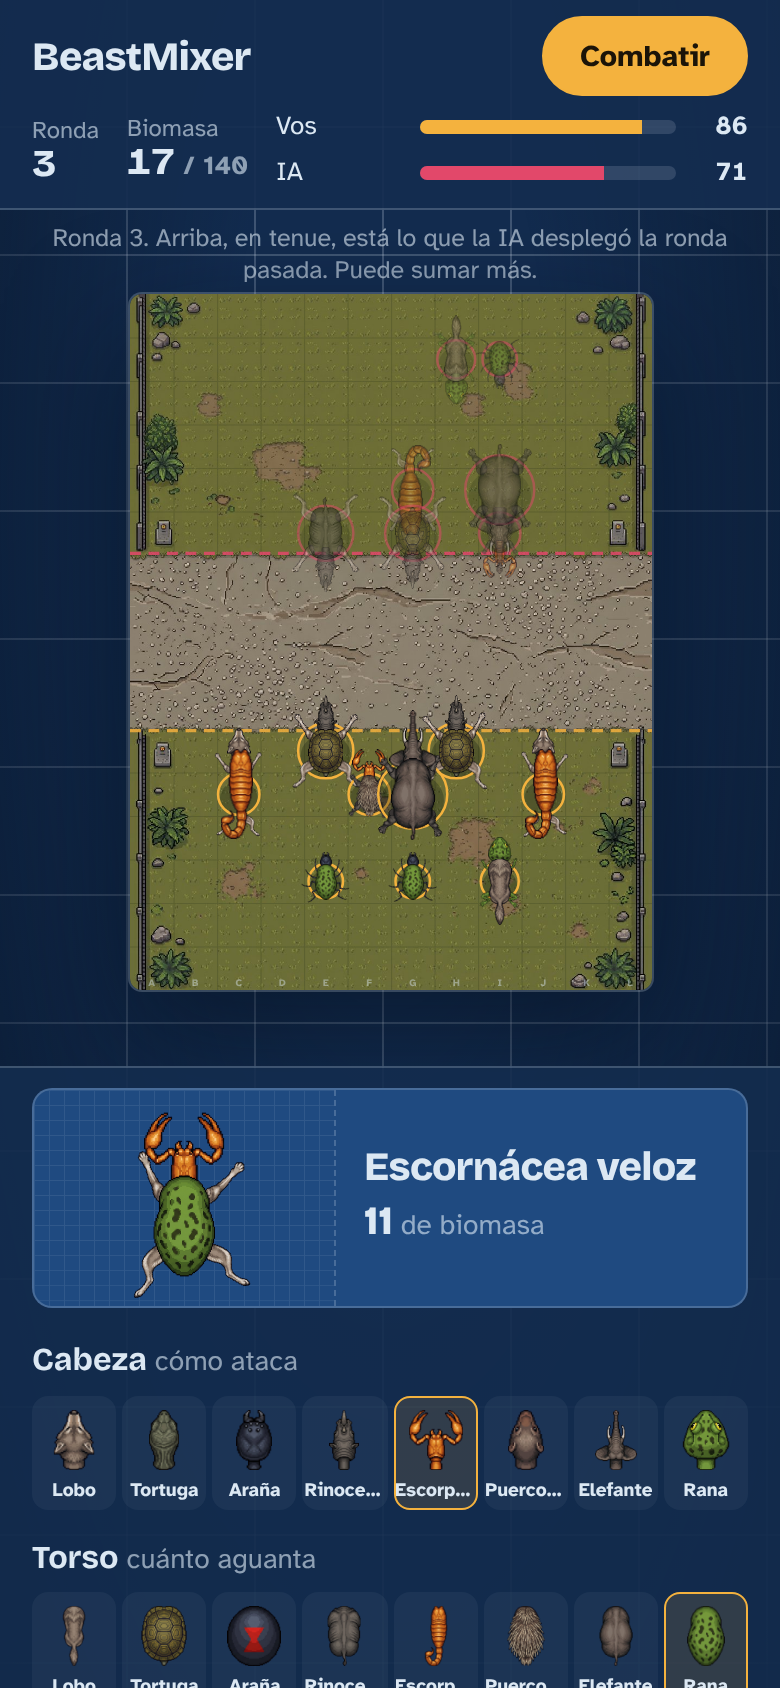
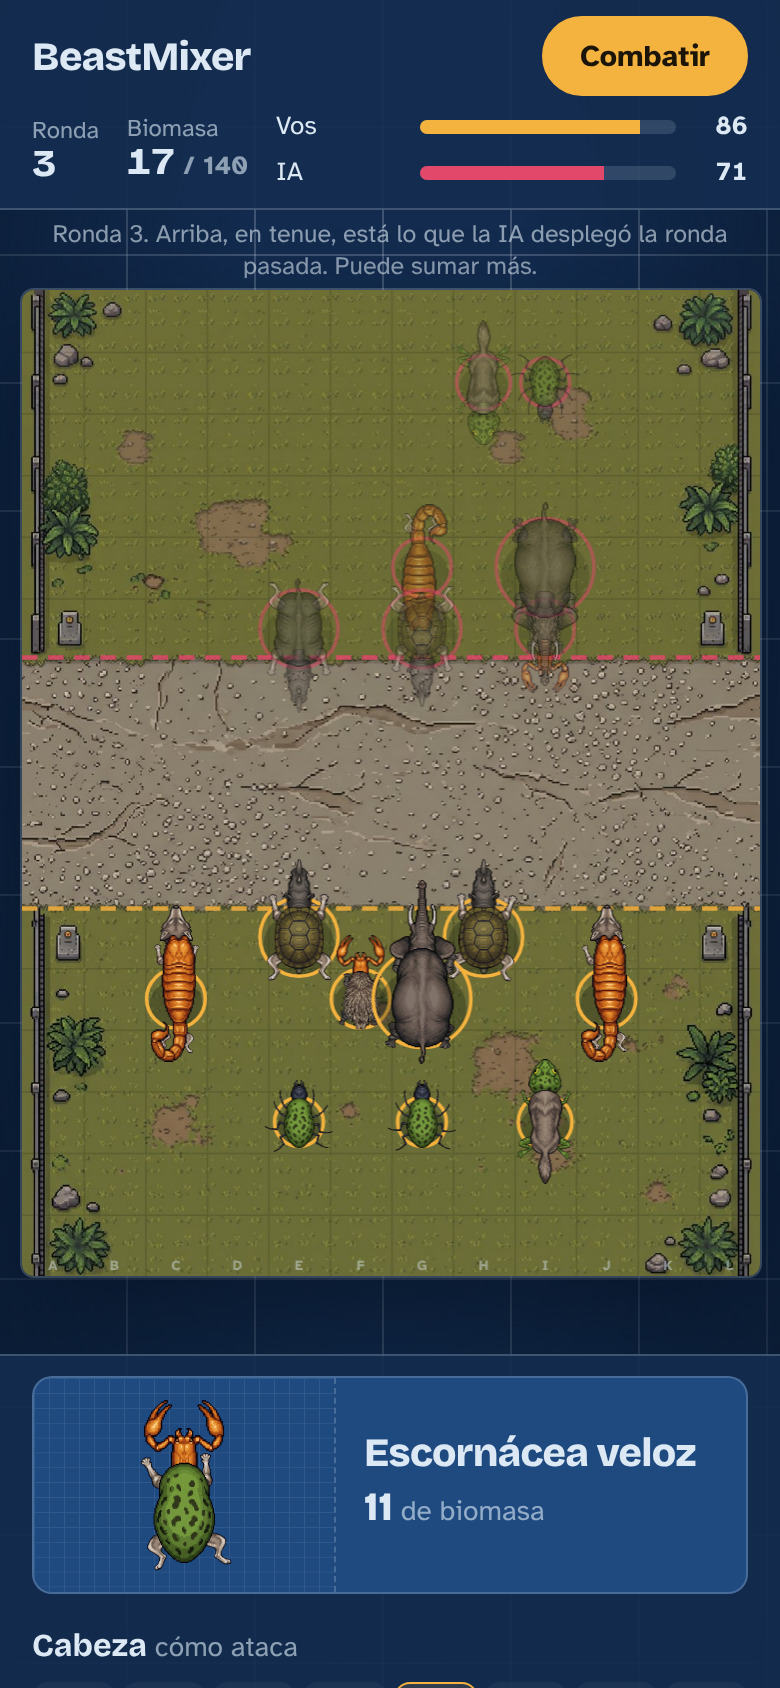
Celular: tablero más grande, cámara de combate y patas más naturales
- Patas según cómo camina cada animal: lobo, rinoceronte, elefante y puercoespín las llevan debajo del cuerpo y asoman al dar el paso; tortuga, rana, araña y escorpión las mantienen abiertas a los costados.
- En el celular el tablero ocupa todo el ancho mientras desplegás.
- Durante el combate, en pantallas chicas la cámara se acerca a la pelea y la sigue.
- Capturas del README actualizadas.

Claude-Session: https://claude.ai/code/session_01FDnrwgjCspprCcZf3NvH3q

diff --git a/src/render/campo.js b/src/render/campo.js
@@ -39,16 +39,59 @@
       canvas.height = Math.floor(H * escala * dpr);
     }
 
-    // Pantalla → coordenadas del mundo (respeta la vista girada del jugador B)
+    // Cámara: centro (x, y) y zoom z. En pantallas chicas sigue la pelea durante el combate.
+    var cam = { x: W / 2, y: H / 2, z: 1 };
+    var ZOOM_MAX = 2.1;
+
+    function objetivoCamara(escena) {
+      var chica = canvas.clientWidth > 0 && canvas.clientWidth < 560;
+      if (!escena.camaraAuto || !chica) return { x: W / 2, y: H / 2, z: 1 };
+      var x0 = Infinity, y0 = Infinity, x1 = -Infinity, y1 = -Infinity, n = 0;
+      (escena.unidades || []).forEach(function (u) {
+        if (u.o && u.o.muerta) return;
+        n++;
+        if (u.x < x0) x0 = u.x; if (u.x > x1) x1 = u.x;
+        if (u.y < y0) y0 = u.y; if (u.y > y1) y1 = u.y;
+      });
+      if (!n) return { x: cam.x, y: cam.y, z: cam.z };
+      var margen = 70;
+      var z = Math.min(W / (x1 - x0 + margen * 2), H / (y1 - y0 + margen * 2));
+      z = Math.max(1, Math.min(ZOOM_MAX, z));
+      return { x: (x0 + x1) / 2, y: (y0 + y1) / 2, z: z };
+    }
+
+    function moverCamara(escena) {
+      var obj = objetivoCamara(escena);
+      var k = escena.camaraAuto ? 0.06 : 0.25;
+      cam.z += (obj.z - cam.z) * k;
+      cam.x += (obj.x - cam.x) * k;
+      cam.y += (obj.y - cam.y) * k;
+      if (Math.abs(cam.z - 1) < 0.002 && !escena.camaraAuto) { cam.z = 1; cam.x = W / 2; cam.y = H / 2; }
+      // que la vista no se salga del mapa
+      var mx = W / (2 * cam.z), my = H / (2 * cam.z);
+      cam.x = Math.max(mx, Math.min(W - mx, cam.x));
+      cam.y = Math.max(my, Math.min(H - my, cam.y));
+    }
+
+    // Pantalla → coordenadas del mundo (respeta la vista girada del jugador B y la cámara)
     function aMundo(clientX, clientY, girar) {
       var rect = canvas.getBoundingClientRect();
       var x = (clientX - rect.left) / rect.width * W;
       var y = (clientY - rect.top) / rect.height * H;
       if (girar) { x = W - x; y = H - y; }
-      return { x: x, y: y };
+      return { x: (x - W / 2) / cam.z + cam.x, y: (y - H / 2) / cam.z + cam.y };
     }
 
-    function aPantalla(x, y, girar) { return girar ? { x: W - x, y: H - y } : { x: x, y: y }; }
+    function aPantalla(x, y, girar) {
+      var sx = (x - cam.x) * cam.z + W / 2, sy = (y - cam.y) * cam.z + H / 2;
+      return girar ? { x: W - sx, y: H - sy } : { x: sx, y: sy };
+    }
+
+    function transformarMundo(girar) {
+      var b = dpr * escala, z = cam.z;
+      if (girar) ctx.setTransform(-b * z, 0, 0, -b * z, b * (W / 2 + cam.x * z), b * (H / 2 + cam.y * z));
+      else ctx.setTransform(b * z, 0, 0, b * z, b * (W / 2 - cam.x * z), b * (H / 2 - cam.y * z));
+    }
 
     function dibujarFondo(escena) {
       if (!mapa) return dibujarFondoPlano(escena);
@@ -133,8 +176,10 @@
     }
 
     function dibujar(escena) {
-      ctx.setTransform(dpr * escala, 0, 0, dpr * escala, 0, 0);
-      if (escena.girar) ctx.setTransform(-dpr * escala, 0, 0, -dpr * escala, W * dpr * escala, H * dpr * escala);
+      moverCamara(escena);
+      ctx.setTransform(1, 0, 0, 1, 0, 0);
+      ctx.fillStyle = '#132c4f'; ctx.fillRect(0, 0, canvas.width, canvas.height);
+      transformarMundo(escena.girar);
       dibujarFondo(escena);
 
       var i, u;
@@ -157,7 +202,8 @@
         var p = aPantalla(u.x, u.y, escena.girar);
         ctx.save();
         ctx.setTransform(dpr * escala, 0, 0, dpr * escala, 0, 0);
-        var ancho = Math.max(18, u.b.radio * 2.2), yb = p.y - u.b.radio * 1.38 * ESCALA_VISUAL - 6;
+        var ev = BM.spritesListos && BM.spritesListos() ? 1.15 : ESCALA_VISUAL;
+        var ancho = Math.max(18, u.b.radio * 2.2) * Math.sqrt(cam.z), yb = p.y - u.b.radio * 1.38 * ev * cam.z - 6;
         ctx.fillStyle = 'rgba(8,20,40,0.75)'; ctx.fillRect(p.x - ancho / 2 - 1, yb - 1, ancho + 2, 5);
         ctx.fillStyle = u.o.equipo; ctx.fillRect(p.x - ancho / 2, yb, ancho * Math.max(0, u.vida / u.b.vida), 3);
         if (u.veneno) {
@@ -214,7 +260,7 @@
         ctx.save();
         ctx.setTransform(dpr * escala, 0, 0, dpr * escala, 0, 0);
         ctx.globalAlpha = Math.min(1, a * 1.5);
-        ctx.font = '700 11px "Atkinson Hyperlegible", system-ui, sans-serif';
+        ctx.font = '700 ' + Math.round(11 * Math.sqrt(cam.z)) + 'px "Atkinson Hyperlegible", system-ui, sans-serif';
         ctx.textAlign = 'center';
         ctx.fillStyle = e.color;
         ctx.fillText(e.texto, p.x, p.y - (1 - a) * 18);

diff --git a/src/render/bestias.js b/src/render/bestias.js
@@ -337,12 +337,18 @@
   var PATA_ESCALA = 0.5;   // las patas vistas desde arriba quedan más cortas
   var CABEZA_MAX = 1.3;     // la cabeza no puede ser más ancha que 1.3 × el torso
 
-  // Ángulos de las patas del lado izquierdo (radianes; 180° = hacia adelante).
-  var PATAS_POR_ANIMAL = {
-    arana: [[2.8, 0, 'pataDel'], [2.25, 0.33, 'pataDel'], [1.25, 0.66, 'pataTras'], [0.6, 1, 'pataTras']],
-    escorpion: [[2.4, 0, 'pataDel'], [1.6, 0.5, 'pataTras'], [0.8, 1, 'pataTras']]
+  // Cómo apoya cada animal las patas, lado izquierdo (radianes; π = hacia adelante).
+  // [ángulo, posición entre hombro (0) y cadera (1), pieza, largo visible]
+  // Reptantes (tortuga, rana, araña, escorpión): patas abiertas a los costados, panza cerca del piso.
+  // Erguidos (lobo, rino, elefante, puercoespín): patas debajo del cuerpo; desde arriba sólo
+  // asoman adelante y atrás al dar el paso.
+  var POSTURA = {
+    arana: { patas: [[2.8, 0, 'pataDel', 1], [2.25, 0.33, 'pataDel', 1], [1.25, 0.66, 'pataTras', 1], [0.6, 1, 'pataTras', 1]], paso: 0.3, borde: 1 },
+    escorpion: { patas: [[2.4, 0, 'pataDel', 1], [1.6, 0.5, 'pataTras', 1], [0.8, 1, 'pataTras', 1]], paso: 0.3, borde: 1 },
+    tortuga: { patas: [[2.45, 0, 'pataDel', 1], [0.7, 1, 'pataTras', 1]], paso: 0.25, borde: 1 },
+    rana: { patas: [[2.55, 0, 'pataDel', 1], [0.6, 1, 'pataTras', 1]], paso: 0.3, borde: 1 }
   };
-  var PATAS_NORMAL = [[2.55, 0, 'pataDel'], [0.6, 1, 'pataTras']];
+  var ERGUIDO = { patas: [[2.9, -0.05, 'pataDel', 0.62], [0.25, 1.05, 'pataTras', 0.62]], paso: 0.5, borde: 1.12 };
 
   // Escala y posiciones de una bestia armada con sprites, en unidades de r.
   function geometria(b) {
@@ -369,20 +375,22 @@
   function dibujarConArte(ctx, b, o) {
     var g = geometria(b);
     var fase = o.fase || 0;
-    var lista = PATAS_POR_ANIMAL[b.pat] || PATAS_NORMAL;
+    var post = POSTURA[b.pat] || ERGUIDO;
+    var lista = post.patas;
     // patas (debajo de todo), lado izquierdo y espejadas a la derecha
     for (var lado = -1; lado <= 1; lado += 2) {
       for (var i = 0; i < lista.length; i++) {
         var L = lista[i];
         var info = g.P[L[2]];
         var t = L[1];
-        var px = -(g.hombro.x + (g.cadera.x - g.hombro.x) * t);
+        var px = -(g.hombro.x + (g.cadera.x - g.hombro.x) * t) * post.borde;
         var py = g.hombro.y + (g.cadera.y - g.hombro.y) * t;
-        var paso = Math.sin(fase + (i % 2 ? Math.PI : 0) + (lado > 0 ? Math.PI : 0)) * 0.32;
+        var paso = Math.sin(fase + (i % 2 ? Math.PI : 0) + (lado > 0 ? Math.PI : 0)) * post.paso;
         ctx.save();
         ctx.scale(lado < 0 ? 1 : -1, 1);
         ctx.translate(px, py);
-        ctx.rotate(L[0] + paso);
+        ctx.rotate(L[0] + paso * (L[0] > 1.57 ? -1 : 1));
+        ctx.scale(1, L[3]);
         pieza(ctx, IMG[b.pat + '-' + L[2]], info.ancla.x, info.ancla.y, g.kL);
         ctx.restore();
       }

diff --git a/css/estilo.css b/css/estilo.css
@@ -191,12 +191,14 @@ h1, h2 { font-family: var(--display); margin: 0; font-weight: 800; letter-spacin
   .vidas { min-width: 0; flex: 1; }
   .vida { grid-template-columns: 64px 1fr 28px; }
   #btnCombatir { margin-left: auto; min-height: 40px; }
-  /* tablero fijo arriba, laboratorio desplazable abajo: no hace falta scrollear para desplegar */
+  /* tablero arriba a todo el ancho, laboratorio desplazable abajo */
   .mesa { display: flex; flex-direction: column; }
-  .tablero { flex: 0 0 auto; height: 58%; padding: 6px 16px 4px; gap: 4px; }
-  .en-combate .tablero { height: 100%; }
+  .tablero { flex: none; padding: 4px 10px 4px; gap: 4px; }
+  .lienzo { flex: none; width: 100%; aspect-ratio: 3 / 4; max-height: 66dvh; }
+  .en-combate .tablero { flex: 1; min-height: 0; }
+  .en-combate .lienzo { flex: 1; aspect-ratio: auto; max-height: none; min-height: 0; }
   .en-combate .lab { display: none; }
-  .aviso { font-size: 12.5px; min-height: 0; line-height: 1.3; }
+  .aviso { font-size: 12.5px; min-height: 0; line-height: 1.3; padding: 0 6px; }
   .velocidades .btn-chico { min-height: 30px; }
   .lab { flex: 1; min-height: 0; border-left: 0; border-top: 1px solid var(--papel-linea); padding-top: 10px; }
   .lamina { display: grid; grid-template-columns: 150px 1fr; align-items: center; }

diff --git a/src/ui/juego.js b/src/ui/juego.js
@@ -229,6 +229,7 @@
     J.sel = null; J.efectos = []; J.combate = null;
     $('velocidades').classList.add('oculto');
     document.body.classList.remove('en-combate');
+    requestAnimationFrame(function () { render.ajustar(); });
     var aviso = J.rivalVisto.length
       ? 'Ronda ' + J.ronda + '. Arriba, en tenue, está lo que ' + rivalTexto() + ' desplegó la ronda pasada. Puede sumar más.'
       : 'Ronda ' + J.ronda + '. El rival todavía no mostró su ejército. Desplegá en tu zona, abajo.';
@@ -241,6 +242,7 @@
     J.sel = null; J.arrastre = null; J.efectos = []; J.fases = {};
     J.combate = { c: BM.crearCombate(ejA, ejB, semilla), acum: 0, fin: null, alTerminar: alTerminar };
     document.body.classList.add('en-combate');
+    requestAnimationFrame(function () { render.ajustar(); });
     $('velocidades').classList.remove('oculto');
     $('aviso').textContent = 'Combate de la ronda ' + J.ronda + '.';
     actualizarLab();
@@ -632,7 +634,7 @@
       J.efectos[i].t -= dt * J.vel;
       if (J.efectos[i].t <= 0) J.efectos.splice(i, 1);
     }
-    return { girar: J.miBando === 1, unidades: unidades, efectos: J.efectos };
+    return { girar: J.miBando === 1, unidades: unidades, efectos: J.efectos, camaraAuto: true };
   }
 
   function cuadro(ts) {
